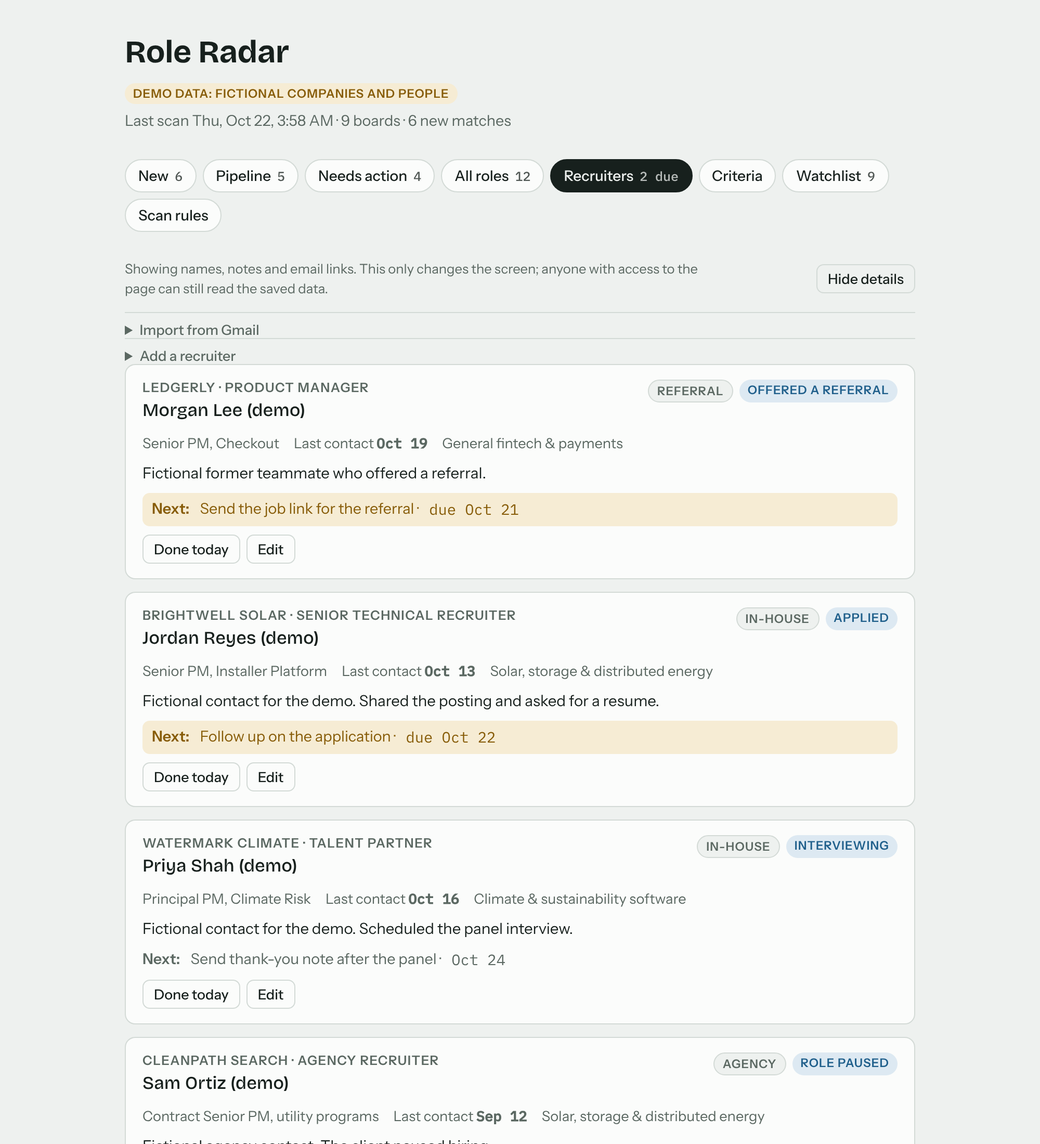
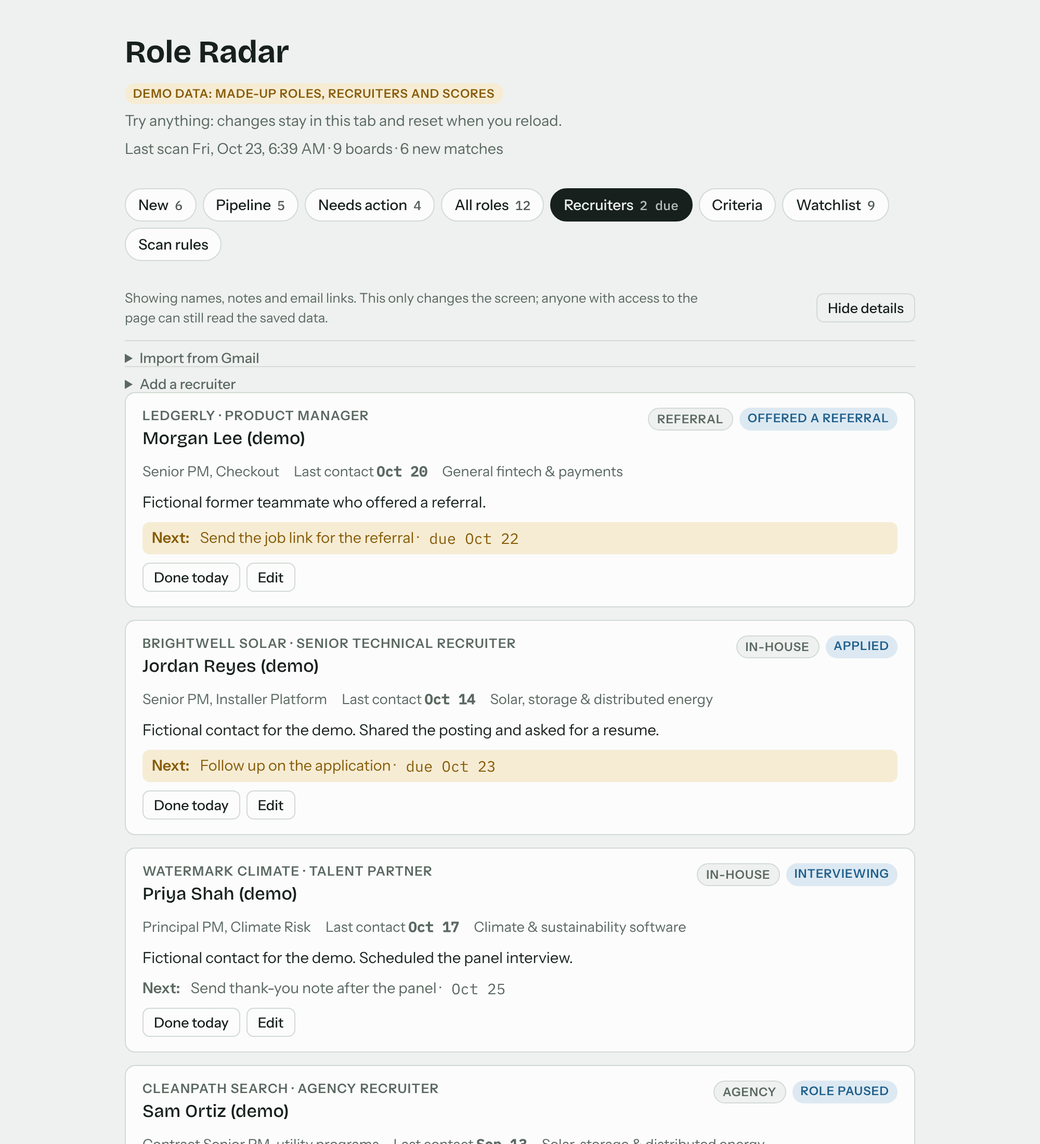
Fix UX sweep findings: experience chip, phone tabs, criteria guard, undo (RR-UX-1 to 13, RR-H-7)
Red-first browser tests in tests/hardening-ui.test.mjs. The chip beside the
score names what it rates, the tab bar scrolls away on phones, criteria saves
that drop a section are blocked, YAML errors name the line and focus the
editor, the demo labels its sample text, Save/Skip offer Undo, the toast is a
status region, Gmail import ends cleanly, the watchlist strip uses plain
words, and hand-added names without Latin letters get unique keys. Fixes the
screenshot script and regenerates README screenshots.

Claude-Session: https://claude.ai/code/session_01CCZN6Gp99pDRixvtx9ab2g

diff --git a/app/role-radar.html b/app/role-radar.html
@@ -71,6 +71,7 @@ label{display:grid;gap:4px;font-size:.82rem;color:var(--muted)}
 input,select,textarea{font:400 .92rem var(--f-body);color:var(--ink);background:var(--bg);border:1px solid var(--line);border-radius:7px;padding:7px 9px;min-width:0}
 textarea{min-height:64px;resize:vertical}
 .primary{font:600 .88rem var(--f-body);background:var(--ink);color:var(--bg);border:0;border-radius:7px;padding:8px 14px;cursor:pointer;justify-self:start}
+.toast-act{background:none;border:0;color:inherit;font:inherit;font-weight:600;text-decoration:underline;padding:4px 6px;margin-left:6px;cursor:pointer}
 .toast{position:fixed;left:50%;transform:translateX(-50%);bottom:calc(18px + env(safe-area-inset-bottom,0px));background:var(--ink);color:var(--bg);padding:8px 14px;border-radius:8px;font-size:.88rem}
 .search{width:100%;box-sizing:border-box}
 .apply-row{display:flex;flex-wrap:wrap;align-items:center;gap:8px 12px;padding-top:2px}
@@ -89,10 +90,12 @@ dialog .row2{display:flex;gap:8px;justify-content:flex-end;margin-top:10px;flex-
 .fbar{margin:0 0 14px;background:var(--surface);border:1px solid var(--line);border-radius:10px;padding:12px 14px;display:grid;gap:10px}
 .fbar .fields{grid-template-columns:repeat(auto-fit,minmax(130px,1fr))}
 #ftoggle{display:none;align-items:center}
+/* On phones the tab bar wraps to 2-3 rows, so it scrolls away instead of covering a fifth of the screen. */
+@media (max-width:600px){#tabs{position:static}}
 @media (max-width:600px){#ftoggle{display:inline-flex}.fbar:not(.open) .fields{display:none}}
 .showcase-mode #ftoggle{display:inline-flex}.showcase-mode .fbar:not(.open) .fields{display:none}
 /* Touch: every control at least 44px tall. */
-@media (max-width:600px), (pointer:coarse){#tabs button,.btn,button,select,input:not([type=checkbox]):not([type=radio]){min-height:44px}a.btn{display:inline-flex;align-items:center}summary{padding-block:14px}}
+@media (max-width:600px), (pointer:coarse){#tabs button,.btn,button,select,input:not([type=checkbox]):not([type=radio]){min-height:44px}a.btn{display:inline-flex;align-items:center}summary{padding-block:14px}.sub .linkbtn,.hint .linkbtn{min-height:44px;display:inline-block;padding-block:12px;margin-block:-12px;line-height:20px;vertical-align:baseline}}
 .fbar .foot{display:flex;justify-content:space-between;align-items:center;gap:10px;flex-wrap:wrap;font-size:.82rem;color:var(--muted)}
 .linkbtn{font:500 .82rem var(--f-body);background:none;border:0;color:var(--accent);cursor:pointer;padding:0}
 .dates{display:flex;flex-wrap:wrap;gap:2px 12px;font-size:.8rem;color:var(--muted)}
@@ -129,7 +132,7 @@ details.more form{display:grid;gap:10px;padding-top:10px}
 .formula{font:400 .82rem var(--f-mono);color:var(--muted);margin:0;white-space:pre-wrap}
 .xchip{font:500 .78rem var(--f-body);padding:2px 9px;border-radius:999px;background:var(--bad-soft);color:var(--bad)}
 .code{font:400 .84rem/1.55 var(--f-mono);tab-size:2;min-height:420px;width:100%;box-sizing:border-box;background:var(--bg);white-space:pre;overflow:auto}
-.err{font:500 .84rem var(--f-mono);color:var(--bad);background:var(--bad-soft);border-radius:7px;padding:6px 9px;margin:0;white-space:pre-wrap}
+.err{font:500 .88rem var(--f-body);color:var(--bad);background:var(--bad-soft);border-radius:7px;padding:6px 9px;margin:0;white-space:pre-wrap}
 .score{font:600 .74rem var(--f-mono);padding:3px 8px;border-radius:999px;background:var(--accent-soft);color:var(--accent)}
 .score.hi{background:var(--good-soft);color:var(--good)}
 .fitr{display:grid;grid-template-columns:auto 1fr;gap:4px 10px;align-items:baseline;font:500 .84rem var(--f-body)}
@@ -194,18 +197,19 @@ details.more form{display:grid;gap:10px;padding-top:10px}
   <header>
     <h1>Role Radar</h1>
     <p class="lede" id="lede" hidden>A job-search radar I built for my own search. It reads job boards every weekday and scores each role 0–100 against criteria I edit, with the math on every card. Applying stays my own call.</p>
-    <span class="demo" id="demoNote" hidden>Demo data: fictional companies and people</span>
+    <span class="demo" id="demoNote" hidden>Demo data: made-up roles, recruiters and scores</span>
+    <p class="sub" id="demoTry" hidden>Try anything: changes stay in this tab and reset when you reload.</p>
     <p class="sub" id="scanLine">Remote Senior and Staff PM roles from company boards, ZipRecruiter, Himalayas and job alerts, checked every weekday morning.</p>
   </header>
 
   <main class="main">
   <div role="tablist" id="tabs" aria-label="Sections"></div>
 
-  <section id="view" aria-live="polite"></section>
+  <section id="view"></section>
   </main>
 </div>
 <aside id="preview" role="region" aria-labelledby="pvTitle" hidden></aside>
-<div class="toast" id="toast" hidden></div>
+<div class="toast" id="toast" role="status" hidden></div>
 <dialog id="applyDlg" aria-labelledby="applyTitle">
   <h3 id="applyTitle">Start intake</h3>
   <p class="sub" style="margin:0 0 10px" id="applyWhere">Open a new chat in your job-search project and paste this. Claude screens the role, asks only what it needs, builds the Google Doc resume, and links it back here.</p>
@@ -237,6 +241,7 @@ let config={...DEF_CONFIG};
 let LANES=config.lanes, SKIP_REASONS=config.skipReasons;
 function setConfig(c){config={...DEF_CONFIG,...(c||{})}; LANES=config.lanes; SKIP_REASONS=config.skipReasons;}
 const ATS=["greenhouse","ashby","lever"];
+const FIT_LABEL={strong:"strong",maybe:"partial",stretch:"stretch"};
 const DEF_VIEW={q:"",status:"",lane:"",fit:"",values:"",culture:"",source:"",tag:"",found:"",conflict:"",sort:"fit"};
 // Gmail import: the viewer's Gmail connector, read-only (search_threads, batch_get_threads).
 let mcp=null, mcpState="checking", gm={state:"idle",items:[],picked:new Set(),msg:""};
@@ -263,7 +268,10 @@ const fmtDate=s=>{if(!s)return"";const d=new Date(String(s).length===10?s+"T12:0
 const today=()=>{const d=new Date();return d.getFullYear()+"-"+String(d.getMonth()+1).padStart(2,"0")+"-"+String(d.getDate()).padStart(2,"0");};
 const daysSince=s=>{if(!s)return null;const d=new Date(String(s).length===10?s+"T12:00:00":s);return isNaN(d)?null:(Date.now()-d)/864e5;};
 function addBusinessDays(from,n){const d=new Date(from);let k=0;while(k<n){d.setDate(d.getDate()+1);const w=d.getDay();if(w!==0&&w!==6)k++;}return d.getFullYear()+"-"+String(d.getMonth()+1).padStart(2,"0")+"-"+String(d.getDate()).padStart(2,"0");}
-function toast(m){const t=$("#toast");t.textContent=m;t.hidden=false;clearTimeout(toast._t);toast._t=setTimeout(()=>t.hidden=true,2200);}
+// toast(message) or toast(message, {label, run}) for a one-tap action such as Undo (shown longer).
+function toast(m,action){const t=$("#toast");t.textContent=m;
+  if(action){const b=document.createElement("button");b.type="button";b.className="toast-act";b.textContent=action.label;b.onclick=()=>{t.hidden=true;action.run();};t.append(" ",b);}
+  t.hidden=false;clearTimeout(toast._t);toast._t=setTimeout(()=>t.hidden=true,action?6000:2200);}
 const st=j=>j.status||"new";
 const tagsOf=j=>Array.isArray(j.tags)?j.tags:(j.tags?String(j.tags).split(",").map(s=>s.trim()).filter(Boolean):[]);
 // Products the owner is building (meta/filters.products). Conflicts are flags only: nothing is hidden or skipped.
@@ -305,6 +313,8 @@ function renderTabs(){
   const c=counts();
   $("#tabs").innerHTML=TABS.map(t=>`<button role="tab" id="tab-${t.id}" aria-selected="${t.id===tab}" data-tab="${t.id}">${t.label}${c[t.id]!==""?` <span class="n">${c[t.id]}${t.id==="people"?" due":""}</span>`:""}</button>`).join("");
 }
+// "greenhouse:orbitline" -> "Greenhouse"
+const boardName=v=>{const a=String(v||"").split(":")[0].toLowerCase(); return (PV&&PV.ATS_LABEL[a])||{workday:"Workday",ashby:"Ashby"}[a]||a||"?";};
 function renderScan(){
   if(!scan){ $("#scanLine").textContent="Remote Senior and Staff PM roles from company boards, ZipRecruiter, Himalayas and job alerts, checked every weekday morning. No scan has run yet."; return;}
   const when=scan.lastRun?new Date(scan.lastRun).toLocaleString(undefined,{weekday:"short",month:"short",day:"numeric",hour:"numeric",minute:"2-digit"}):"";
@@ -349,7 +359,7 @@ function jobCard(j){
   const id=esc(j._id), s=st(j), fit=(j.fit||"").toLowerCase(), resumeUrl=safeUrl(j.resumeUrl);
   // Demo roles are made up: their example.com links would be dead ends, so they become a "Sample posting" note.
   const sample=isSampleUrl(j.url), url=sample?"":safeUrl(j.url);
-  const fitChip=(typeof j.score==="number"?`<span class="score${j.score>=70?" hi":""}" title="Criteria score">${esc(j.score)}</span>`:"")+(fit?`<span class="chip fit-${esc(fit)}">${esc(fit)} fit</span>`:"");
+  const fitChip=(typeof j.score==="number"?`<span class="score${j.score>=70?" hi":""}" title="Criteria score, 0–100">${esc(j.score)}</span>`:"")+(fit?`<span class="chip fit-${esc(fit)}" title="How well the candidate's experience matches; one part of the score">Experience: ${esc(FIT_LABEL[fit]||fit)}</span>`:"");
   const stChip=s!=="new"?`<span class="chip st st-${esc(s)}">${esc(STATUS_LABEL[s]||s)}</span>`:"";
   // The public demo shows one category per card (the sector); the lane is Chase's own grouping.
   const laneChip=j.lane&&!(window.__RR_SHOWCASE__&&j.sector)?`<span class="chip lane">${esc(j.lane)}</span>`:"";
@@ -423,7 +433,7 @@ function filterBar(){
     <div class="fields">
       <label for="fv-status">Status<select id="fv-status" data-v="status">${opts(statusList,view.status,"Any")}</select></label>
       <label for="fv-lane">Lane<select id="fv-lane" data-v="lane">${opts(LANES.map(l=>[l,l]),view.lane,"Any")}</select></label>
-      <label for="fv-fit">Fit<select id="fv-fit" data-v="fit">${opts([["strong","Strong"],["maybe","Maybe"],["stretch","Stretch"]],view.fit,"Any")}</select></label>
+      <label for="fv-fit">Experience<select id="fv-fit" data-v="fit">${opts([["strong","Strong"],["maybe","Partial"],["stretch","Stretch"]],view.fit,"Any")}</select></label>
       <label for="fv-values">Values<select id="fv-values" data-v="values">${opts([["good+","Good or better"],["great","Great"],["good","Good"],["neutral","Neutral"],["no","No"]],view.values,"Any")}</select></label>
       <label for="fv-culture">Culture<select id="fv-culture" data-v="culture">${opts([["good+","Good or better"],["great","Great"],["good","Good"],["maybe","Maybe"],["no","No"],["unrated","Unrated"]],view.culture,"Any")}</select></label>
       <label for="fv-source">Source<select id="fv-source" data-v="source">${opts(sources,view.source,"Any")}</select></label>
@@ -432,7 +442,7 @@ function filterBar(){
       <label for="fv-conflict">Product conflict<select id="fv-conflict" data-v="conflict">${opts([["flag","Flagged"],["clear","No conflict"]],view.conflict,"Any")}</select></label>
       <label for="fv-sort">Sort<select id="fv-sort" data-v="sort">${[["fit","Best match"],["culture","Best culture"],["found","Newest found"],["posted","Newest posted"],["updated","Recently changed"],["followup","Follow-up date"]].map(([v,l])=>`<option value="${v}"${v===view.sort?" selected":""}>${l}</option>`).join("")}</select></label>
     </div>
-    <div class="foot"><span id="fcount"></span><button class="btn" type="button" id="ftoggle" aria-expanded="${filtersOpen}">${filtersOpen?"Hide filters":"Filters and sort"}${nf?` (${nf})`:""}</button>${active?`<button class="linkbtn" type="button" id="fclear">Clear filters</button>`:""}</div>
+    <div class="foot"><span id="fcount" role="status"></span><button class="btn" type="button" id="ftoggle" aria-expanded="${filtersOpen}">${filtersOpen?"Hide filters":"Filters and sort"}${nf?` (${nf})`:""}</button>${active?`<button class="linkbtn" type="button" id="fclear">Clear filters</button>`:""}</div>
   </form>`;
 }
 function applyView(list){
@@ -505,17 +515,17 @@ function boardHealth(){
   const n=v=>Number(v)||0, arrOf=a=>Array.isArray(a)?a:[];
   const pr=n(cv.priorityRead), pt=n(cv.priorityTotal), low=pt>0&&pr/pt<0.9;
   const when=scan.lastRun?new Date(scan.lastRun).toLocaleString(undefined,{weekday:"short",month:"short",day:"numeric",hour:"numeric",minute:"2-digit"}):"";
-  const mode=cv.mode==="webfetch"?"web reader":cv.mode==="skipped"?"skipped":cv.mode==="full"?"full":(cv.mode||"");
+  const mode=cv.mode==="webfetch"?"web reader":cv.mode==="skipped"?"skipped":cv.mode==="full"?"full scan":(cv.mode||"");
   const failed=arrOf(cv.failedList).map(f=>typeof f==="string"?{name:f}:f||{}).filter(f=>f.name);
   const moved=arrOf(cv.moved).filter(m=>m&&m.name), partial=arrOf(cv.partialList).filter(Boolean);
   const src=cv.sources&&typeof cv.sources==="object"?Object.entries(cv.sources):[];
   const srcLabel={ziprecruiter:"ZipRecruiter",gmail:"Gmail",himalayas:"Himalayas",climatebase:"Climatebase"};
   return `<div class="health${low?" low":""}" role="status">
-    <p class="sum">Boards: <b>${n(cv.read)}/${n(cv.attempted)}</b> read${pt?` (solar/climate <b>${pr}/${pt}</b>)`:""}${n(cv.partial)?` · ${n(cv.partial)} partial`:""}${when?` · last run ${esc(when)}`:""}${mode?` · mode ${esc(mode)}`:""}</p>
+    <p class="sum">Boards: <b>${n(cv.read)}/${n(cv.attempted)}</b> read${pt?` (solar/climate <b>${pr}/${pt}</b>)`:""}${n(cv.partial)?` · ${n(cv.partial)} partial`:""}${when?` · last run ${esc(when)}`:""}${mode?` · ${esc(mode)}`:""}</p>
     ${low?`<p class="sum" style="color:var(--warn)">Priority boards under 90% read. Some solar and climate roles may be missing from this run.</p>`:""}
     ${failed.length?`<div class="chips">Failed${failed.map(f=>`<span class="hchip bad" title="${esc(f.error||"")}">${esc(f.name)}</span>`).join("")}</div>`:""}
     ${partial.length?`<div class="chips">Partial${partial.map(x=>`<span class="hchip warn">${esc(x)}</span>`).join("")}</div>`:""}
-    ${moved.length?`<div class="chips">Moved${moved.map(m=>`<span class="hchip" title="Board moved; the scan repointed it">${esc(m.name)}: ${esc(m.from||"?")} → ${esc(m.to||"?")}</span>`).join("")}</div>`:""}
+    ${moved.length?`<div class="chips">Changes${moved.map(m=>`<span class="hchip" title="The scan found the new board and switched to it">${esc(m.name)} moved its job board (${esc(boardName(m.from))} → ${esc(boardName(m.to))})</span>`).join("")}</div>`:""}
     ${src.length?`<div class="chips">Sources${src.map(([k,v])=>`<span class="hchip${v==="failed"?" bad":v==="skipped"?" warn":""}">${esc(srcLabel[k]||k)} ${esc(v)}</span>`).join("")}</div>`:""}
   </div>`;
 }
@@ -560,10 +570,18 @@ function renderFilters(){
     <button class="primary" type="submit">Save settings</button></form>`;
 }
 
+// Sections the scan and the page read. Saving a spec that drops one the saved spec has is blocked.
+const SPEC_PARTS=[["sectors","sector weights"],["comp","comp floor"],["role","title rules"],["scoring","min score and digest size"]];
+function droppedParts(next,saved){ if(!saved||typeof saved!=="object") return []; return SPEC_PARTS.filter(([k])=>saved[k]!=null&&(next==null||typeof next!=="object"||next[k]==null)).map(([,l])=>l); }
+// A readable doc key from names: accents fold (José → jose); a part with no Latin letters adds a short hash, so
+// "李明" and "王芳" at one company get different keys instead of overwriting each other.
+const slugOf=x=>String(x||"").normalize("NFKD").replace(/[\u0300-\u036f]/g,"").toLowerCase().replace(/[^a-z0-9]+/g,"-").replace(/^-|-$/g,"");
+const hashOf=x=>{let h=5381; for(const ch of String(x)) h=((h*33)^ch.codePointAt(0))>>>0; return h.toString(36);};
+function docKey(...parts){ const key=parts.map(slugOf).filter(Boolean).join("-").slice(0,60); return parts.some(x=>String(x||"").trim()&&!slugOf(x))||!key?(key?key+"-":"")+hashOf(parts.join(" ")):key; }
 function parseSpec(t){
   if(!window.jsyaml) return {data:null,err:""};
   try{ const d=window.jsyaml.load(t); if(!d||typeof d!=="object") return {err:"The spec should be a YAML map (key: value)."}; return {data:d,err:""}; }
-  catch(e){ return {err:String(e.message||e).split("\n")[0]}; }
+  catch(e){ return {err:String(e.message||e).split("\n")[0],line:e.mark&&Number.isFinite(e.mark.line)?e.mark.line+1:null}; }
 }
 const money=n=>typeof n==="number"?"$"+Math.round(n/1000)+"K":esc(n??"—");
 const sentence=t=>String(t).replace(/^\w/,c=>c.toUpperCase());
@@ -587,10 +605,10 @@ function critSummary(d){
     </div></div>
     <div class="ccard"><h2>Sector weights</h2><div>${secs.map(s=>`<div class="sec"><span class="lbl">${esc(s.label||s.id)}</span>${pip(Number(s.weight)||0)}${Array.isArray(s.examples)&&s.examples.length?`<span class="ex">${listTxt(s.examples.slice(0,6))}</span>`:""}</div>`).join("")||`<span class="hint">No sectors yet.</span>`}</div></div>
     ${xs.length?`<div class="ccard"><h2>Never show</h2><div class="tags">${xs.map(x=>`<span class="xchip">${esc(x)}</span>`).join("")}</div></div>`:""}
-    <div class="ccard"><h2>Scoring</h2><p class="formula">sector  = weight × 15        (0–45)
-fit     = strong 35 · maybe 20 · stretch 5
-culture = +10 good signals, −10 per red flag
-comp    = +10 if the range reaches ${money(c.stretch_target_usd)}</p></div>
+    <div class="ccard"><h2>Scoring</h2><p class="formula">sector = weight × 15 (0–45)
+experience = strong 35 · partial 20 · stretch 5
+culture signals = +10 good, −10 per red flag
+comp = +10 if the range reaches ${money(c.stretch_target_usd)}</p></div>
     ${fitCard(d)}`;
 }
 function fitCard(d){
@@ -599,7 +617,7 @@ function fitCard(d){
   if(!checks.length&&!d.values_fit) return "";
   const badge=r=>`<span class="rate r-${esc(r)}">${esc(RATE_LABEL[r]||r)}</span>`;
   return `<div class="ccard"><h2>Fit ratings</h2>
-    <p class="sub" style="margin:0">Two badges on every role. They explain a role and never change its score.</p>
+    <p class="sub" style="margin:0">Two badges on every role. They explain a role and never change its score; the Culture badge is separate from the culture-signals points above.</p>
     <div class="legend"><small>Values by sector weight</small>${[3,2,1,0].map(w=>`<span>${badge(vw[w]||"no")} weight ${w}</span>`).join("")}</div>
     <div class="legend"><small>Culture by total points</small><span>${badge("great")} ${esc(b.great)}+</span><span>${badge("good")} ${esc(b.good)}+</span><span>${badge("maybe")} ${esc(b.maybe)}+</span><span>${badge("no")} below ${esc(b.maybe)}</span></div>
     ${checks.length?`<div class="checks">${checks.map(k=>{const n=Number(k.points)||0;return `<div><span class="pt ${n>0?"pos":n<0?"neg":""}">${n>0?"+":n<0?"−":""}${Math.abs(n)}</span><span>${esc(k.short||k.id)}${k.means?` <span class="m">· ${esc(k.means)}</span>`:""}</span></div>`;}).join("")}</div>`:""}
@@ -657,7 +675,8 @@ function gmailImport(){
   else if(gm.state==="loading") body=`<p class="hint" role="status">Reading your Gmail…</p>`;
   else if(gm.state==="done"){
     const fresh=gm.items.filter(c=>!c.exists), n=gm.picked.size;
-    body=gm.items.length?`<p class="hint">Found ${gm.items.length} ${gm.items.length===1?"person":"people"}${fresh.length<gm.items.length?`, ${gm.items.length-fresh.length} already in your list`:""}. Untick anyone who isn't a recruiter, then add the rest.</p>
+    body=gm.items.length&&!fresh.length?`<p class="hint" role="status">All ${gm.items.length===1?"of them":gm.items.length} ${gm.items.length===1?"is":"are"} in your list. Nothing left to add.</p><button class="btn" type="button" id="gmFind">Search again</button>`
+      :gm.items.length?`<p class="hint">Found ${gm.items.length} ${gm.items.length===1?"person":"people"}${fresh.length<gm.items.length?`, ${gm.items.length-fresh.length} already in your list`:""}. Untick anyone who isn't a recruiter, then add the rest.</p>
       <ul class="gmlist">${gm.items.map(c=>`<li><label><input type="checkbox" data-gmpick="${esc(c.key)}"${gm.picked.has(c.key)?" checked":""}${c.exists?" disabled":""}>
         <span><b>${esc(c.name||c.email)}</b>${c.company?` · ${esc(c.company)}`:""} <span class="chip lane">${esc(c.type)}</span>${c.exists?` <i class="gmhave">already added</i>`:""}
         <span class="hint">${c.lastContact?`Last email <span class="mono">${fmtDate(c.lastContact)}</span>`:"No date on these emails"}${c.threads>1?` · ${c.threads} threads`:""}${c.subject?` · ${esc(c.subject)}`:""}</span></span></label></li>`).join("")}</ul>
@@ -717,10 +736,10 @@ function renderCriteria(){
   return `<div class="crit">${critSummary(p.data)}
     <form class="ccard" id="critForm"><h2>criteria.yaml</h2>
       <p class="sub" style="margin:0">The scan reads this before every run. Change a weight, add a company to <span class="mono">hard_exclude</span>, or move the comp floor, then save.${when?` Last saved ${esc(when)}.`:""}</p>
-      ${critErr||p.err?`<p class="err">${esc(critErr||p.err)}</p>`:""}
+      ${critErr||p.err?`<p class="err" id="critErr" role="alert" style="scroll-margin-top:16px">${esc(critErr||p.err)}</p>`:""}
       ${!window.jsyaml?`<p class="err">The YAML reader didn't load, so the summary and preview are off. You can still edit and save.</p>`:""}
       <label for="critText" class="sr" style="position:absolute;left:-9999px">Criteria YAML</label>
-      <textarea id="critText" class="code" spellcheck="false" autocapitalize="off" autocomplete="off">${esc(text)}</textarea>
+      <textarea id="critText" class="code" spellcheck="false" autocapitalize="off" autocomplete="off"${critErr||p.err?` aria-invalid="true" aria-describedby="critErr"`:""}>${esc(text)}</textarea>
       <div class="ctl"><button class="primary" type="submit">Save criteria</button>${critDraft!==null?`<button class="btn" type="button" id="critReset">Discard changes</button>`:""}</div>
     </form>
     <div class="ccard"><h2>Digest preview</h2><p class="sub" style="margin:0">How tomorrow's digest would rank the roles in New with the criteria above. Edit a weight and watch it change.</p><div id="digestPreview">${digestPreview(p.data)}</div></div></div>`;
@@ -757,11 +776,16 @@ function patchFor(j,next){
   if(next==="applied"){ if(!j.appliedAt) p.appliedAt=now; if(!j.followUpDue) p.followUpDue=addBusinessDays(j.appliedAt||now,config.followUpBusinessDays); }
   return p;
 }
-async function setStatus(j,next,extra){
+async function setStatus(j,next,extra,opts){
   if(!db) return;
-  try{await db.doc("jobs/"+j._id).update({...patchFor(j,next),...(extra||{})}); toast("Marked "+(STATUS_LABEL[next]||next).toLowerCase());}
-  catch(err){toast("Couldn't save that change. Try again in a moment.");}
+  const prev={status:st(j),statusAt:j.statusAt||""};
+  try{await db.doc("jobs/"+j._id).update({...patchFor(j,next),...(extra||{})});}
+  catch(err){toast("Couldn't save that change. Try again in a moment.");return;}
+  if(!(opts&&opts.undo)){ toast("Marked "+(STATUS_LABEL[next]||next).toLowerCase()); return; }
+  toast("Moved to "+(STATUS_LABEL[next]||next),{label:"Undo",run:async()=>{try{await db.doc("jobs/"+j._id).update(prev); toast("Back in "+(STATUS_LABEL[prev.status]||prev.status));}catch(_){toast("Couldn't undo that.");}}});
 }
+// After a card leaves the list, put focus on the card that took its place so keyboard users don't land at the top.
+function focusCardAfter(i){ requestAnimationFrame(()=>{ const cards=[...document.querySelectorAll("#view article.job")]; const c=cards[Math.min(i,cards.length-1)]; const h=c&&(c.querySelector("h2 a, h2")); if(h){ if(!h.matches("a")) h.tabIndex=-1; h.focus({preventScroll:false}); } }); }
 async function markViewed(j){
   if(!db||!j||st(j)!=="new") return;
   try{await db.doc("jobs/"+j._id).update(patchFor(j,"viewed"));}catch(_){}
@@ -795,7 +819,7 @@ function renderPreview(bodyOnly){
   const open=url?`<a class="pv-open" href="${esc(url)}" target="_blank" rel="noopener">Open posting ↗</a>`:"";
   const msg=(h,t)=>`<div class="pv-msg"><strong>${h}</strong><span>${t}</span>${open||`<span>${sample?"This is a made-up role, so there's no real posting.":"No posting link is saved for this role."}</span>`}</div>`;
   const srcName=SOURCE_LABEL[String(j.source||j.ats||"").toLowerCase()]||esc(j.source||j.ats||"this source");
-  const body=p.state==="ok"?`<div class="pv-body" id="pvBody"></div><p class="pv-src">Word for word from ${esc(ats)}'s public job board. Nothing is saved.</p>`
+  const body=p.state==="ok"?`<div class="pv-body" id="pvBody"></div><p class="pv-src">${window.__RR_DEMO__?`Sample description written for this demo. On the live page this loads word for word from ${esc(ats||"the company")}'s public job board.`:`Word for word from ${esc(ats)}'s public job board. Nothing is saved.`}</p>`
     :p.state==="loading"?`<p class="pv-src" role="status">Loading the description from ${esc(ats||"the job board")}…</p>`
     :p.state==="gone"?msg("This posting isn't on the board anymore",`${esc(ats)} no longer lists it, so it may be closed. The original link might still work.`)
     :p.state==="error"?msg("Couldn't load the description",`${esc(ats)} didn't answer from this page. Open the posting to read it there.`)
@@ -876,12 +900,13 @@ document.addEventListener("click",async e=>{
   if(t){tab=t.dataset.tab; view.status=""; saveView(); try{localStorage.setItem("rr-tab",tab)}catch(_){} render(); return;}
   if(e.target.closest("[data-skipcancel]")){ skipOpen=null; render(); return; }
   const sw=e.target.closest("[data-skipwhy]");
-  if(sw){ const j=jobs.find(x=>x._id===sw.dataset.job); skipOpen=null; if(j) await setStatus(j,"skipped",{skipReason:sw.dataset.skipwhy}); render(); return; }
+  if(sw){ const j=jobs.find(x=>x._id===sw.dataset.job); skipOpen=null; const i=[...document.querySelectorAll("#view article.job")].indexOf(sw.closest("article.job")); if(j) await setStatus(j,"skipped",{skipReason:sw.dataset.skipwhy},{undo:true}); render(); focusCardAfter(Math.max(0,i)); return; }
   const qk=e.target.closest("[data-quick]");
   if(qk){
     const j=jobs.find(x=>x._id===qk.dataset.job); if(!j) return;
     if(qk.dataset.quick==="skipped"){ skipOpen=j._id; render(); return; }
-    await setStatus(j,qk.dataset.quick); return;
+    const i=[...document.querySelectorAll("#view article.job")].indexOf(qk.closest("article.job"));
+    await setStatus(j,qk.dataset.quick,null,{undo:true}); render(); focusCardAfter(Math.max(0,i)); return;
   }
   const c=e.target.closest("[data-co]");
   if(c&&db){
@@ -922,15 +947,13 @@ document.addEventListener("submit",async e=>{
   }
   if(e.target.id==="addRec"){
     const n=$("#ar-n").value.trim(), c=$("#ar-c").value.trim(); if(!n||!c) return;
-    const slug=x=>x.toLowerCase().replace(/[^a-z0-9]+/g,"-").replace(/^-|-$/g,"").slice(0,40);
     const doc={name:n,company:c,type:$("#ar-t").value,roles:$("#ar-r").value.trim(),nextStep:$("#ar-x").value.trim(),nextStepDue:$("#ar-d").value,lastContact:today(),source:"manual",createdAt:new Date().toISOString(),mailSearch:"https://mail.google.com/mail/u/0/#search/"+encodeURIComponent(c)};
-    try{await db.doc("recruiters/"+slug(n+" "+c)).set(doc); e.target.reset(); document.activeElement?.blur?.(); toast("Recruiter added"); render();}catch(_){toast("Couldn't add that.");}
+    try{await db.doc("recruiters/"+docKey(n,c)).set(doc); e.target.reset(); document.activeElement?.blur?.(); toast("Recruiter added"); render();}catch(_){toast("Couldn't add that.");}
     return;
   }
   if(e.target.id==="addJob"){
     const co=$("#aj-co").value.trim(), ti=$("#aj-ti").value.trim(); if(!co||!ti) return;
-    const slug=s=>s.toLowerCase().replace(/[^a-z0-9]+/g,"-").replace(/^-|-$/g,"").slice(0,40);
-    const id="manual-"+slug(co)+"-"+slug(ti), now=new Date().toISOString(), status=$("#aj-st").value;
+    const id="manual-"+docKey(co,ti), now=new Date().toISOString(), status=$("#aj-st").value;
     const doc={company:co,title:ti,url:$("#aj-url").value.trim(),lane:$("#aj-ln").value,source:"manual",firstSeen:now,status,statusAt:now,viewedAt:now};
     if(status==="applied"){doc.appliedAt=now; doc.followUpDue=addBusinessDays(now,config.followUpBusinessDays);}
     try{await db.doc("jobs/"+id).set(doc); toast("Added to the pipeline"); e.target.reset(); document.activeElement?.blur?.(); render();}catch(err){toast("Couldn't add that role.");}
@@ -955,8 +978,11 @@ document.addEventListener("submit",async e=>{
   }
   if(e.target.id==="critForm"){
     const spec=$("#critText").value, parsed=parseSpec(spec);
-    if(parsed.err){ critDraft=spec; critErr=parsed.err; render(); toast("Fix the YAML first"); return; }
-    try{await db.doc("meta/criteria").set({spec,updatedAt:new Date().toISOString(),version:(parsed.data&&parsed.data.version)||null}); critDraft=null; critErr=""; document.activeElement?.blur?.(); toast("Criteria saved. Next scan uses them.");}
+    const showErr=(m,t)=>{ critDraft=spec; critErr=m; render(); toast(t); const ta=$("#critText"); if(ta){ ta.focus({preventScroll:true}); } $("#critErr")?.scrollIntoView({block:"nearest"}); };
+    if(parsed.err){ showErr(parsed.err,`${parsed.line?`Line ${parsed.line} has`:"There's"} a YAML error. Nothing was saved.`); return; }
+    const gone=droppedParts(parsed.data,parseSpec((criteria&&criteria.spec)||"").data);
+    if(gone.length){ const m=`This would remove: ${gone.join(", ")}. Nothing was saved.`; showErr(m+" Put those sections back, or choose Discard changes.",m); return; }
+    try{await db.doc("meta/criteria").set({spec,updatedAt:new Date().toISOString(),version:(parsed.data&&parsed.data.version)||null}); critDraft=null; critErr=""; document.activeElement?.blur?.(); toast(window.__RR_DEMO__?"Criteria saved for this visit. The demo resets when you reload.":"Criteria saved. Next scan uses them.");}
     catch(err){toast("Couldn't save the criteria.");}
   }
 });
@@ -967,7 +993,7 @@ document.addEventListener("keydown",e=>{
   e.preventDefault(); const t=e.target, a=t.selectionStart; t.setRangeText("  ",a,t.selectionEnd,"end"); critDraft=t.value;
 });
 
-if(window.__RR_DEMO__) $("#demoNote").hidden=false;
+if(window.__RR_DEMO__){ $("#demoNote").hidden=false; $("#demoTry").hidden=false; }
 if(window.__RR_SHOWCASE__){ $("#showcase").hidden=false; $("#lede").hidden=false; document.body.classList.add("showcase-mode"); }
 render();
 (async()=>{

diff --git a/src/scoring.js b/src/scoring.js
@@ -207,11 +207,13 @@
     return { rating: r, reason: reason.charAt(0).toUpperCase() + reason.slice(1) + ".", points, hits, source: "computed" };
   }
 
-  /** "45 sector + 35 fit + 10 comp" — the parts that moved the score. */
+  /** "45 sector + 35 experience + 10 comp" — the parts that moved the score.
+   *  "fit" is stored as strong/maybe/stretch but shown as experience strong/partial/stretch,
+   *  so it doesn't read as the overall verdict next to the score. */
   function explain(result) {
     const p = result.parts, out = [];
     const add = (n, label) => { if (n) out.push((out.length ? (n < 0 ? "− " : "+ ") : n < 0 ? "−" : "") + Math.abs(n) + " " + label); };
-    add(p.sector, "sector"); add(p.fit, "fit"); add(p.culture, "culture"); add(p.comp, "comp"); add(p.values, "values"); add(p.dream, "dream role");
+    add(p.sector, "sector"); add(p.fit, "experience"); add(p.culture, "culture signals"); add(p.comp, "comp"); add(p.values, "values"); add(p.dream, "dream role");
     return out.join(" ") || "0";
   }
 

diff --git a/HANDOFF.md b/HANDOFF.md
@@ -1,6 +1,6 @@
 # Handoff
 
-Updated: 2026-10-23 (night shift: hardening round 1 in progress)
+Updated: 2026-10-23 (night shift: hardening rounds 1-2)
 
 ## Planning IDs (Oct 21, 2026)
 The repo now uses the studio planning IDs (milestone `M1`, task `M1.1`, step `M1.1.1`; product code `RR` across products). Old labels stay in git history and branch names. New work uses the new IDs.
@@ -31,6 +31,7 @@ _Updated 2026-10-22._
 - **Keep in sync:** when a change here alters what the portfolio page or demo shows (features, numbers, screenshots, privacy claims), tell the portfolio thread ("Portfolio research and upgrade plan") or update the page in the portfolio repo (`tools/build.py`). Any portfolio change that touches this product adds a dated line here.
 
 ## Done
+- 2026-10-23 night shift hardening, round 2 (UX sweep of public, `?full` and private views at 390x844 and 1280x800, light and dark: 0 P0, 3 P1, 10 P2). Fixed with red-first browser tests in `tests/hardening-ui.test.mjs`: RR-UX-1 the chip beside the score reads "Experience: strong / partial / stretch" (the old "Maybe fit" beside a 90 read as a contradiction), the score line says "experience" and "culture signals", the filter is "Experience", the score has a "Criteria score, 0–100" tooltip; RR-UX-2 the tab bar no longer sticks on phones (it covered 19-33% of the screen); RR-UX-3 saving criteria that drop sector weights, comp, title rules or scoring is blocked with "This would remove: … Nothing was saved."; RR-UX-4 YAML errors say "Line N has a YAML error. Nothing was saved.", focus the editor, set aria-invalid and link the error; RR-UX-5 demo previews say the description is a sample; RR-UX-6/7 demo label "made-up roles, recruiters and scores" plus "changes reset when you reload", demo criteria save says "for this visit"; RR-UX-9 Save/Skip toast "Moved to Saved · Undo" (6s) and focus moves to the next card; RR-UX-10 toast is `role=status`, the list is no longer an aria-live region; RR-UX-11 Gmail import says "Nothing left to add" once everyone is in; RR-UX-12 inline "Criteria" link keeps a 44px target without double line spacing, error text in the body font; RR-UX-13 Watchlist strip says "full scan" and "Orbitline moved its job board (Greenhouse → Lever)". RR-H-7: recruiters and roles added by hand with non-Latin names get unique keys (they overwrote each other). `npm run screenshots` fixed (it waited for Ledgerly at #1, which dream anchors changed) and README screenshots regenerated. 122 tests, green 3x.
 - 2026-10-23 night shift hardening, round 1 (branch `claude/project-thread-vxgzv0`, from main): `tests/hardening.test.mjs` RR-H-1 to RR-H-6, each red first, then fixed. A "401(k)" in a comp string no longer reads as a $401K salary (false stretch bonus); an empty comp object `{min:null,max:null}` no longer fails the comp floor and drops the role; a broken %-escape in a posting link no longer throws; Lever lists without a heading no longer add an empty heading; Gmail suggestions always get a non-empty, unique doc key (names with no Latin letters used to map to `recruiters/` and overwrite each other; accents now fold, José → jose); a sender whose display name is their address gets a name from the address. `npm run review:shots` now also covers the private page (normal mode, demo data), the preview panel and recruiter details. 112 tests, green 3x.
 - 2026-10-22 recruiter-ready round 4: last in-repo P2s (one category chip on public cards, "Recruiters N due", plain-word Criteria summary, centered filter button). Nothing at P2 or above is left in this repo; what's left is the portfolio intake and Chase's https check. 92 tests.
 - 2026-10-22 recruiter-ready round 3: P2 polish (plain source names, folded filters on the public demo, one font in sentences, landmarks and headings with zero axe violations, js-yaml inlined in the public build, README links the live demo), README screenshots regenerated. 88 tests.
@@ -87,7 +88,7 @@ _Updated 2026-10-22._
   - 8 unit tests, 5 browser tests (desktop, phone sheet, sanitizing, unreachable board, other sources); 68 passing. New screenshots `preview.png`, `phone-preview.png` (`npm run screenshots -- preview phone-preview`).
 
 ## In progress
-- Night shift 2026-10-23 (hardening): round 1 pushed (pure-module edge cases). UX sweep of every screen (public, `?full`, private; phone and laptop; light and dark) running next; P0 to P2 fixes follow on this branch.
+- Night shift 2026-10-23 (hardening), draft PR #31: rounds 1-2 pushed. Next: re-sweep the fixed build (`npm run review:shots`, then look at the shots) and fix anything new at P2+.
 - Power hour (Chase, 2026-10-22): PRs #20-#25 (recruiter-ready) and #16 (dream-role anchors, 93/93 tests on the merge) are merged to main. PR #18 (job description preview) merged 2026-10-23 after bringing main in; live page republished with `posting.js` the same day.
 - Public demo: merged (PR #17), repo renamed to `role-radar`, redeployed, Pages green after #25. Waiting on a phone check of the live URL and https, and on the portfolio repoint (intake with Chase).
 
@@ -105,6 +106,10 @@ _Updated 2026-10-22._
 - The live page is `app/role-radar.html` published with `src/scoring.js` and `src/posting.js` as supporting files named `scoring.js` and `posting.js`.
 
 ## Decisions to review
+- Night shift 2026-10-23: the "fit" chip now reads "Experience: strong / partial / stretch" (stored values stay strong/maybe/stretch, so the scan is unchanged). This replaces round 2's "Strong fit" wording (RR-P1-3). Alternative: hide the chip on the public build.
+- Night shift 2026-10-23: the criteria guard blocks a save only when it drops a section (sectors, comp, role, scoring) that the saved spec has, so a first-time spec in another shape still saves.
+- Night shift 2026-10-23: the tab bar scrolls away on phones instead of becoming one sticky scrolling row (simplest, keeps every tab visible at the top).
+- Not done (P2, left): RR-UX-12's other half (comp and dates in the mono font inside sentences) and the real brand names in the demo criteria's sector examples (the demo label now says roles, recruiters and scores are made up, not the examples).
 - Public demo has no "Code on GitHub" link: the repo URL contains a term on the private denylist, so the pre-commit privacy check blocks it. If you're fine with the GitHub handle appearing in page source, allow it in the denylist and add the link; the portfolio page can link the repo meanwhile.
 - Agents sync skips `focus-coach` and `orchestrator`: they are about Chase's personal routine and would read oddly to a recruiter browsing this public repo. Re-run `scripts/sync.sh <repo> focus-coach orchestrator` from studio-agents if you want them here.
 - The Gmail search result shape was taken from the connector's own documentation, not a live call (reading real mail from the build session was blocked as personal data). The parser accepts the documented camelCase fields and a few likely variants; first real use will confirm it.

diff --git a/README.md b/README.md
@@ -36,7 +36,7 @@ flowchart LR
 ```
 
 1. **Criteria as code.** Everything I'm looking for lives in one YAML file ([`criteria.yaml`](criteria.yaml)). It sets sector weights, title and location gates, comp floors, culture red flags, hard excludes, and how many roles from each sector can appear in one digest. I edit it on the Criteria tab, and the next scan follows it.
-2. **A transparent score.** Every role gets 0 to 100 from one formula, and each card shows how its score was reached (`45 sector + 35 fit + 10 comp = 90`). The rules live in [`src/scoring.js`](src/scoring.js) and are pinned down by tests, so the page, the tests and the scan's instructions agree.
+2. **A transparent score.** Every role gets 0 to 100 from one formula, and each card shows how its score was reached (`45 sector + 35 experience + 10 comp = 90`). The rules live in [`src/scoring.js`](src/scoring.js) and are pinned down by tests, so the page, the tests and the scan's instructions agree.
 3. **A scheduled scan agent.** Each weekday morning, a scheduled Claude run reads the criteria, checks the boards and aggregators, reads job-alert and application emails (read-only), adds new matches, moves application statuses forward from confirmations and rejections, and sends me a short digest. Its instructions are in [`scan/scan-prompt.template.md`](scan/scan-prompt.template.md).
 4. **One tracker.** New roles land in *New*. Saving or applying moves them to *Pipeline*. *Needs action* lists follow-ups that are due, applications with no reply, and resumes that are ready but not sent. *Recruiters* keeps each contact's last touchpoint and next step, and can be filled from Gmail in one pass (below).
 5. **One-tap intake.** *Apply* copies a prompt for my job-intake agent, which screens the posting, asks only the gap questions that would change a bullet, and builds a tailored resume from my career master doc.
